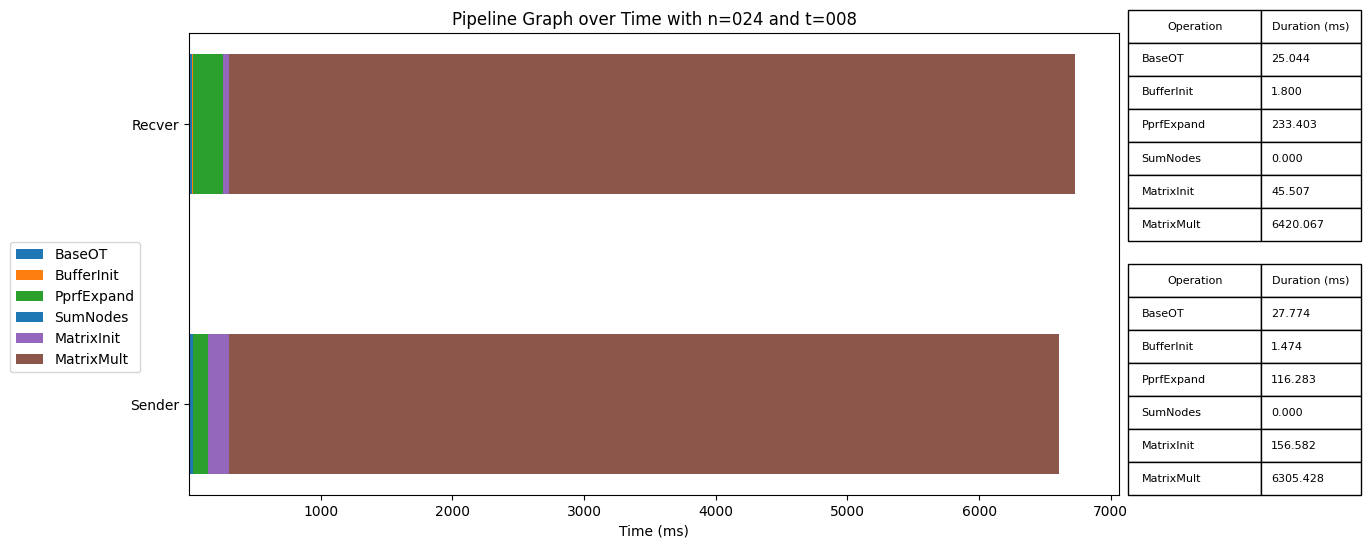
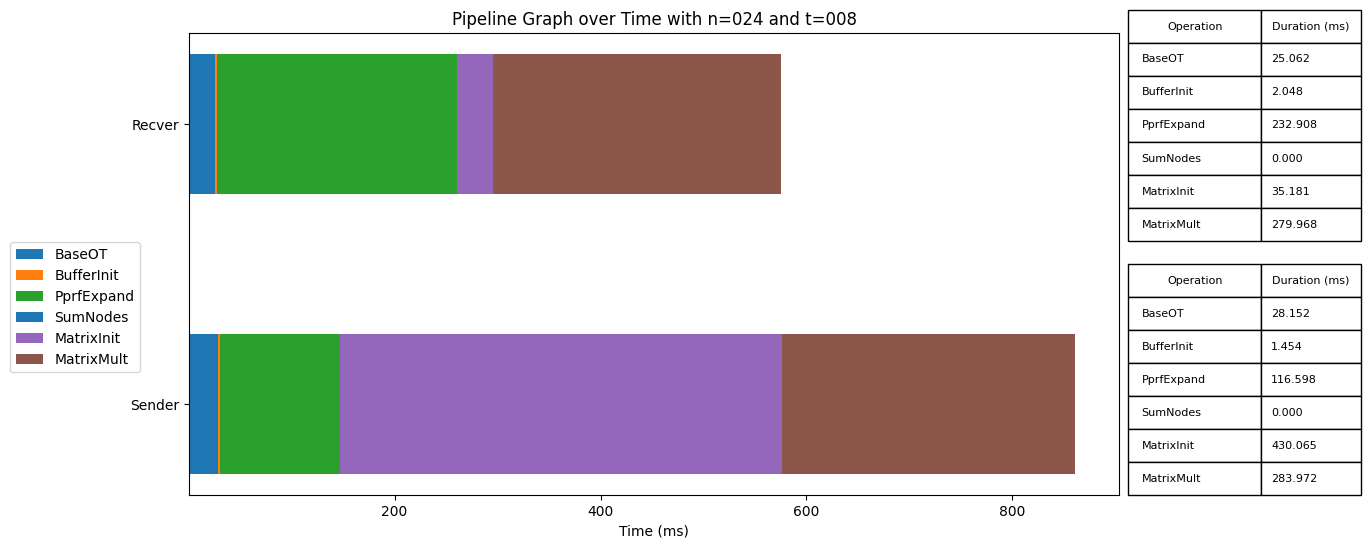
fft no err

diff --git a/3-dev/gpu_matrix.h b/3-dev/gpu_matrix.h
@@ -47,10 +47,14 @@ template<typename T>
 void GPUmatrix<T>::bit_transpose() {
   uint8_t *tpBuffer;
   cudaMalloc(&tpBuffer, mNBytes);
-  dim3 nBlocks(32, 32);
-  dim3 grid(mCols * 128 / 32, mRows / 8 / 32);
-  bit_transposer<<<grid, nBlocks>>>(tpBuffer, mPtr);
+  uint64_t numThreadX = mCols * 8 * sizeof(OTblock);
+  uint64_t numThreadY = mRows / 64;
+  dim3 blocks(std::min((uint64_t) 32, numThreadX), std::min((uint64_t) 32, numThreadY));
+  dim3 grid((numThreadX + 31) / 32, (numThreadY + 31) / 32);
+  bit_transposer<<<grid, blocks>>>((uint64_t*) tpBuffer, (uint64_t*) mPtr);
   cudaDeviceSynchronize();
+  cudaFree(mPtr);
+  mPtr = tpBuffer;
   uint64_t tpRows = mCols * 8 * sizeof(T);
   mCols = mRows / (8 * sizeof(T));
   mRows = tpRows;
@@ -58,7 +62,7 @@ void GPUmatrix<T>::bit_transpose() {
 
 template<typename T>
 void GPUmatrix<T>::modp(uint64_t reducedTerms) {
-  poly_mod_gpu<<<reducedTerms / 1024, 1024>>>((OTblock*) mPtr, mCols);
+  poly_mod_gpu<<<reducedTerms / 1024, 1024>>>((uint64_t*) mPtr, mCols);
   cudaDeviceSynchronize();
   mCols = reducedTerms;
 }

diff --git a/3-dev/gpu_ops.h b/3-dev/gpu_ops.h
@@ -11,7 +11,7 @@ __global__
 void xor_gpu(uint8_t *a, uint8_t *b, uint64_t n);
 
 __global__
-void poly_mod_gpu(OTblock *data, uint64_t terms);
+void poly_mod_gpu(uint64_t *data, uint64_t terms);
 
 __global__
 void and_single_gpu(uint8_t *a, uint8_t *b, uint64_t size, uint64_t n);
@@ -20,7 +20,7 @@ __global__
 void xor_single_gpu(uint8_t *a, uint8_t *b, uint64_t size, uint64_t n);
 
 __global__
-void bit_transposer(uint8_t *out, uint8_t *in);
+void bit_transposer(uint64_t *out, uint64_t *in);
 
 __global__
 void int_to_float(float *o, uint64_t *i);
